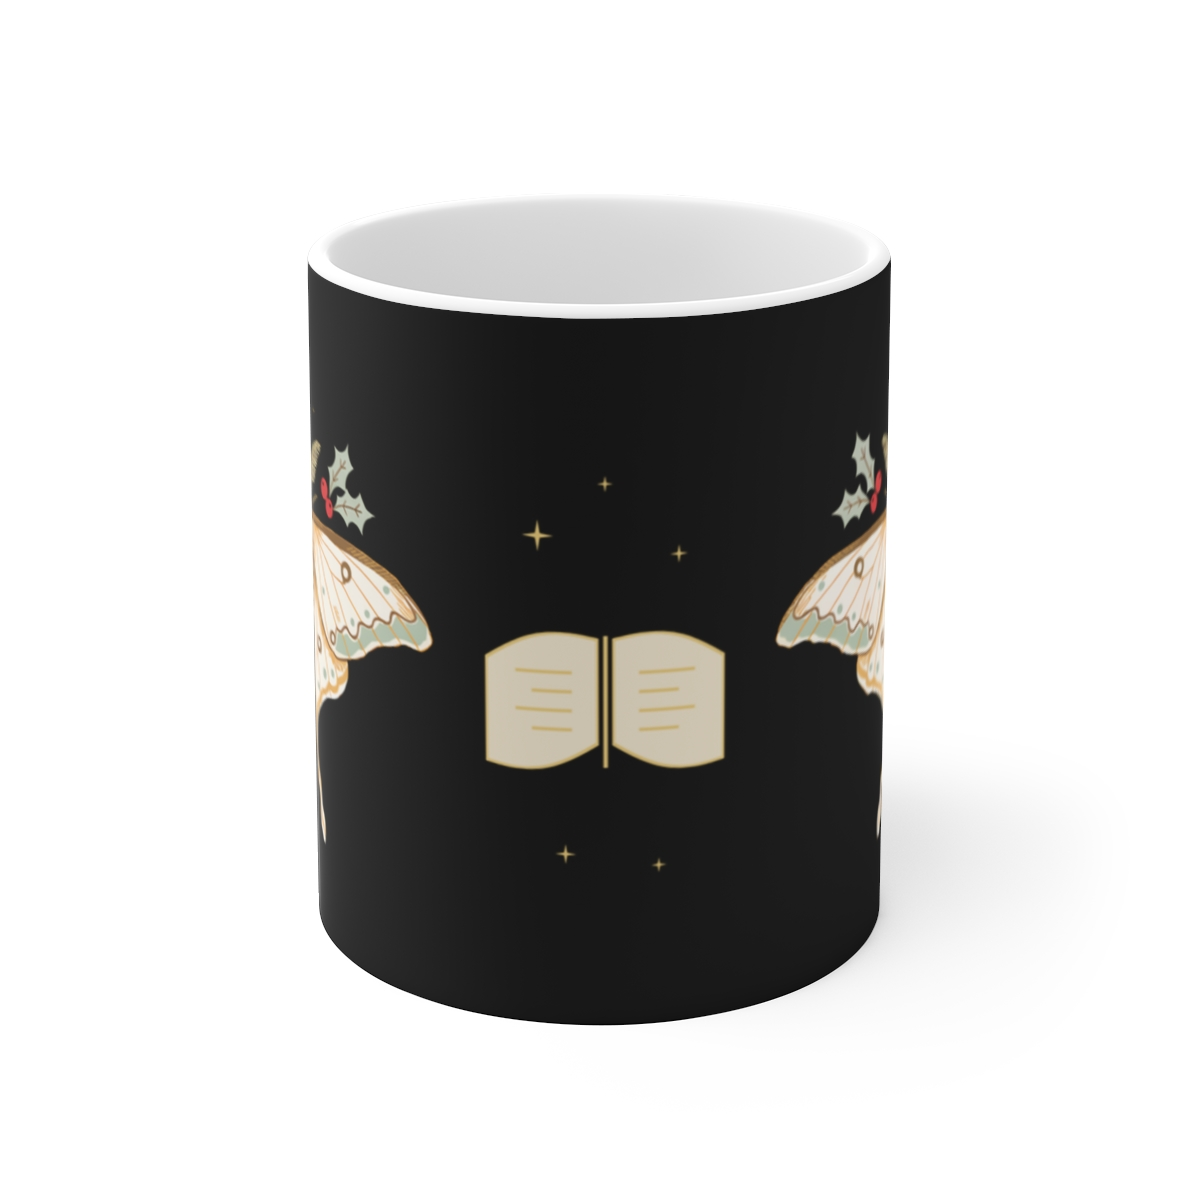
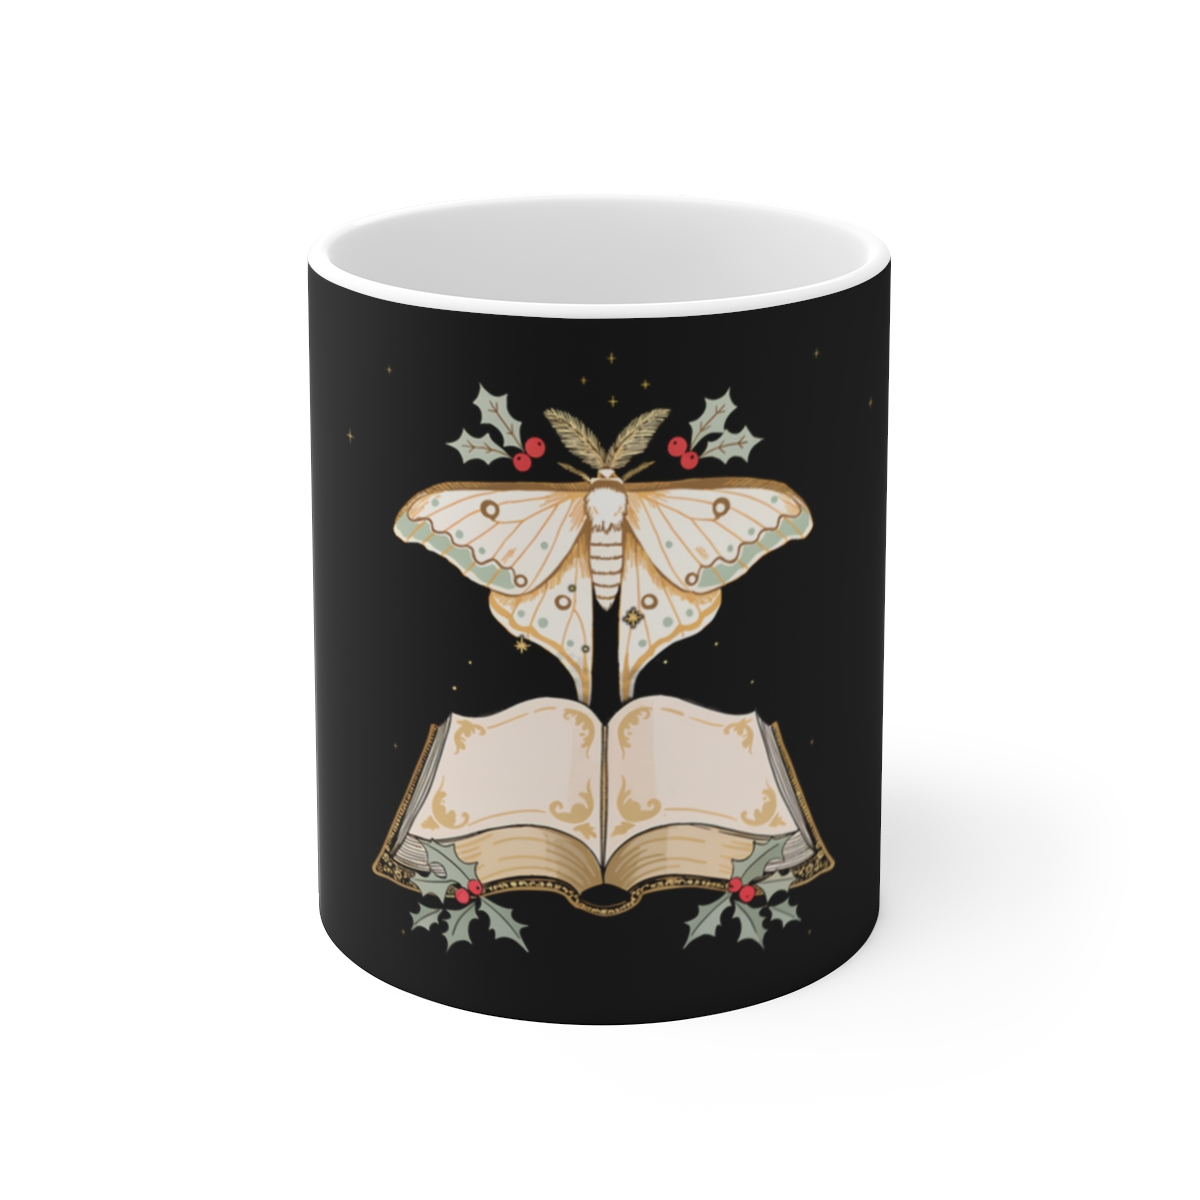
Designer: pod/007 reading mug fix round 2 (distinct composition, new book art, reader tags, $18.99)
Claude-Session: https://claude.ai/code/session_01S6uJYEB3RbemxDTYZH724b

Changed region(s): [[0.2467, 0.3083, 0.74, 0.8017]]

diff --git a/pod/make_007.py b/pod/make_007.py
@@ -1,0 +1,50 @@
+"""007 reading mug wrap: one large luna moth rising from an open book (front), small holly sprigs and stars on the back."""
+import os, math
+import numpy as np
+from PIL import Image, ImageFilter, ImageDraw
+POD = os.path.dirname(os.path.abspath(__file__))
+D = os.path.join(POD, "007-moth-reading-mug")
+
+def cut(path, pad=20):
+    im = Image.open(path).convert("RGB"); a = np.asarray(im).astype(float)
+    b = np.concatenate([a[:100].reshape(-1,3), a[-100:].reshape(-1,3)]); bg = np.median(b, 0)
+    diff = np.abs(a - bg).max(2)
+    ys, xs = np.where(diff > 30)
+    x0, y0, x1, y1 = xs.min()-pad, ys.min()-pad, xs.max()+pad, ys.max()+pad
+    im = im.crop((x0,y0,x1,y1)); diff = diff[y0:y1, x0:x1]
+    m = Image.fromarray((np.clip((diff-4)/10,0,1)*255).astype(np.uint8)).filter(ImageFilter.MaxFilter(9)).filter(ImageFilter.GaussianBlur(4))
+    return im, m, bg
+
+def put(canvas, im, m, cx, top=None, h=None, w=None, cy=None):
+    s = (h/im.height) if h else (w/im.width)
+    size = (round(im.width*s), round(im.height*s))
+    im, m = im.resize(size, Image.LANCZOS), m.resize(size, Image.LANCZOS)
+    y = top if top is not None else cy - size[1]//2
+    canvas.paste(im, (cx-size[0]//2, y), m)
+    return size
+
+def star(canvas, cx, cy, R, col=(236,196,120)):
+    S = 4; n = int(2*R*2+8)
+    layer = Image.new("L", (n*S, n*S), 0); d = ImageDraw.Draw(layer); c = n*S/2
+    pts = []
+    for k in range(8):
+        r = R*S if k % 2 == 0 else R*S*0.14
+        ang = -math.pi/2 + k*math.pi/4
+        pts.append((c + r*math.cos(ang), c + r*math.sin(ang)))
+    d.polygon(pts, fill=255)
+    canvas.paste(Image.new("RGB", (n,n), col), (round(cx-n/2), round(cy-n/2)), layer.resize((n,n), Image.LANCZOS))
+
+moth, mm, bg = cut(os.path.join(POD, "006-moth-holly-tee/candidates/moth-2-up.png"))
+book, bm, _ = cut(os.path.join(D, "candidates/book-1-up.png"))
+W, H = 2700, 1120
+canvas = Image.new("RGB", (W, H), tuple(int(round(c)) for c in bg))
+# front: moth rises out of the open book
+put(canvas, moth, mm, 1350, top=50, h=680)
+put(canvas, book, bm, 1350, cy=715, w=840)
+for x, y, R in [(900,230,14),(1860,200,12),(700,520,9),(2010,470,10),(1000,110,8),(1700,90,9),(620,330,6),(2090,330,6),(1000,700,7),(1700,700,7)]:
+    star(canvas, x, y, R)
+# back: stars only
+for x, y, R in [(330,420,13),(240,540,8),(440,780,7),(560,300,6),(300,820,6),(2370,420,13),(2290,540,8),(2460,790,7),(2140,300,6),(2400,830,6),(1010,1010,6),(1700,1020,6)]:
+    star(canvas, x, y, R)
+canvas.save(os.path.join(D, "mug-wrap-2700x1120.png"), dpi=(300,300))
+print(canvas.size)

diff --git a/pod/007-moth-reading-mug/LISTING.md b/pod/007-moth-reading-mug/LISTING.md
@@ -1,24 +1,22 @@
-# 007-moth-reading-mug
-
-## Title (128 chars)
-Cozy Winter Reading Mug, Book Lover Gift, Luna Moth and Holly Coffee Mug, Cottagecore Christmas, Dark Academia 11 oz Ceramic Mug
+## Title (129 chars)
+Open Book Reading Mug, Bookworm Gift for Book Lovers, Moth and Holly Winter Coffee Mug, Librarian Teacher Gift, 11 oz Ceramic Mug
 
 ## Tags (13)
-reading mug, book lover gift, winter reading mug, bookish mug, moth mug, luna moth mug, cottagecore mug, dark academia mug, cozy coffee mug, holly berry mug, christmas book mug, reader gift, whimsigoth mug
+bookworm gift, librarian gift, bookish gift, reading lover mug, winter reading mug, tea and books mug, teacher gift mug, book lover gift, reader gift mug, christmas book mug, holly berry mug, cozy coffee mug, night reader gift
 
 ## Price
-$16.99 (11 oz, Printify cost $6.44, SPOKE provider 1, blueprint 68). Profit = 16.99 - 6.44 - (1.70+0.20 Etsy fees) - 0.67 (10% of $6.69 shipping) = **$7.98** (floor $6).
+$18.99 (11 oz, Printify cost $6.44, SPOKE provider 1, blueprint 68). Raised from the first draft's $16.99 (and from 001's $16.99) because the front is now a large detailed open-book scene. Profit = 18.99 - 6.44 - (1.90+0.20 Etsy fees) - 0.67 (10% of $6.69 shipping) = **$9.78** (floor $6).
 
 ## Description
-A pale luna moth with long tails and sprigs of sage-green holly and red berries, one on each side of the mug, with a little gold open book and stars in between. A quiet, cozy mug for winter evenings, new chapters and a hot drink beside the lamp: a gift for book lovers, night readers and anyone who likes a cottagecore Christmas. No words on the mug, just the art.
+A big open book with gilded pages and sprigs of holly, and a pale luna moth rising out of it into a sky of tiny gold stars. A quiet mug for winter evenings, one more chapter and a hot drink beside the lamp: a gift for bookworms, librarians, teachers and night readers. No words on the mug, just the art.
 
 Printed and shipped by our production partner
 Each mug is printed for you after you order and shipped by our print-on-demand production partner in the USA.
 
 Details
-- Material: white glossy ceramic, lead and BPA free
+- Material: white glossy ceramic
 - Size: 11 oz (0.33 l), about 3.8 in tall and 3.2 in across, classic C-handle
-- Print: full-colour sublimation, the design wraps around the mug on a black background
+- Print: full-colour sublimation, the scene sits on the front of the mug on a black background, with a sprinkle of gold stars around the sides
 - Care: hand washing is recommended to keep the print bright for longer
 
 Production and shipping
@@ -30,5 +28,5 @@ Original artwork by Duskwood Designs Co. No text on the design.
 Designed with the help of digital and AI tools, and checked by hand.
 
 ## Notes
-- Phrase check: "Cozy Winter Reading Mug" generic; avoid "Cozy Turtle" / "Cozy Reader" (see queue note). No text on the mug.
-- Do NOT list before the Etsy Ads test ends 24 Oct only if the owner wants; this is a NEW listing, no live listing touched.
+- Round 2: distinct from live 001 (one large moth rising from a gilded open book on the front, stars only on the back; 001 has two moths and a crescent). Tags and title are reader-focused; none of 001's tags are reused. "Cozy Winter Reading Mug" dropped from the title.
+- Do NOT list before the Etsy Ads test ends 24 Oct unless the owner wants; this is a NEW listing, no live listing touched.

diff --git a/pod/007-moth-reading-mug/PROMPTS.md b/pod/007-moth-reading-mug/PROMPTS.md
@@ -1,2 +1,7 @@
-# Prompts: 007 Moth reading mug
-No new AI art: reuses pod/006-moth-holly-tee/candidates/moth-2-up.png (cream luna moth with holly, on black; 18 credits spent on 006). Wrap built by pod/make_art.py (`mug(..., accent=book_accent)`): moth at 1/4 and 3/4 of the wrap (790 px tall), code-drawn gold open book and sparkles at the front. Black background. New AI cost: 0.
+# Prompts: 007 Reading mug (round 2)
+Round 1 reused the 006 moth with a code-drawn book. Round 2: one flash image for the book (cheap recipe, no --pro), moth reused from pod/006-moth-holly-tee/candidates/moth-2-up.png (no new moth cost).
+
+## `gen --flash` (1 x $0.007) -> candidates/book-1.png (kept, first try)
+> Flat vector illustration style with fine linework and subtle grain, crisp edges, centred composition, no text, no lettering. Cozy, a little whimsical winter. Limited palette: cream #f1e6cf, moon gold #e8c97a, soft sage green #a8c3a0 and bright berry red #d4506a on a solid flat pure black background. Subject: a single open antique book seen from the front, wide, slightly curved pages with fine gold line detail and gold page edges, blank pages with soft cream shading and delicate gold ornamental flourishes, ornate gold-trimmed cover edge visible beneath, a sprig of sage-green holly with three red berries resting at each lower corner of the book, a few tiny gold stars floating above, no words, no letters, generous empty margin on all sides
+
+`upscale` -> candidates/book-1-up.png (4096 px, $0.004). Wrap built by `pod/make_007.py`: moth (680 px) rises from the book (840 px wide) at the front centre, gold sparkles drawn in code, stars only on the back. Nothing within 40 px of the edge. Total new AI cost about $0.011.

diff --git a/log/ACTION-LOG.md b/log/ACTION-LOG.md
@@ -288,3 +288,4 @@
 - 2026-10-19 22:25 UTC: Manager rotation v3 -> v4 (v3 at 470k tokens). New session session_01S6uJYEB3RbemxDTYZH724b, readiness push landed (cde42ec); new routine trig_01EHYqh6LwZQkSsYHRvdbWw9 (same cron, 6:12a/6:12p ET) created; old routine trig_01SXEcTaKkqRpA1K2EauNGFf disabled (fallback). First v4 shift: 6:12am ET 20 Oct.
 - 2026-10-20 UTC: Designer built POD mug pod/007-moth-reading-mug (Cozy Winter Reading Mug; Printify 6ad73fcb5c40fb7fca0af0be, not published; $16.99, profit $7.98; 0 new credits, reuses 006 moth art + code-drawn book). Awaiting QA. No live listing touched.
 - 2026-10-20 UTC: QA reviewed POD 007 moth-reading-mug (Printify 6ad73fcb...), REJECTED round 1: too close to live 001 (same layout, 5/13 shared tags), centre book art is flat clip-art, only front mockup. Money/listing/live-product checks pass (profit $7.98). See pod/007-moth-reading-mug/QA.md. No live listing touched.
+- 2026-10-20 Designer: pod/007 reading mug fix round 2: new front (one large moth rising from a flash-generated gilded open book, stars on back), reader-focused title/tags (none shared with 001), price $18.99 (profit about $9.78), live Printify product updated, not published; AI cost about $0.011 (1 flash + upscale)
